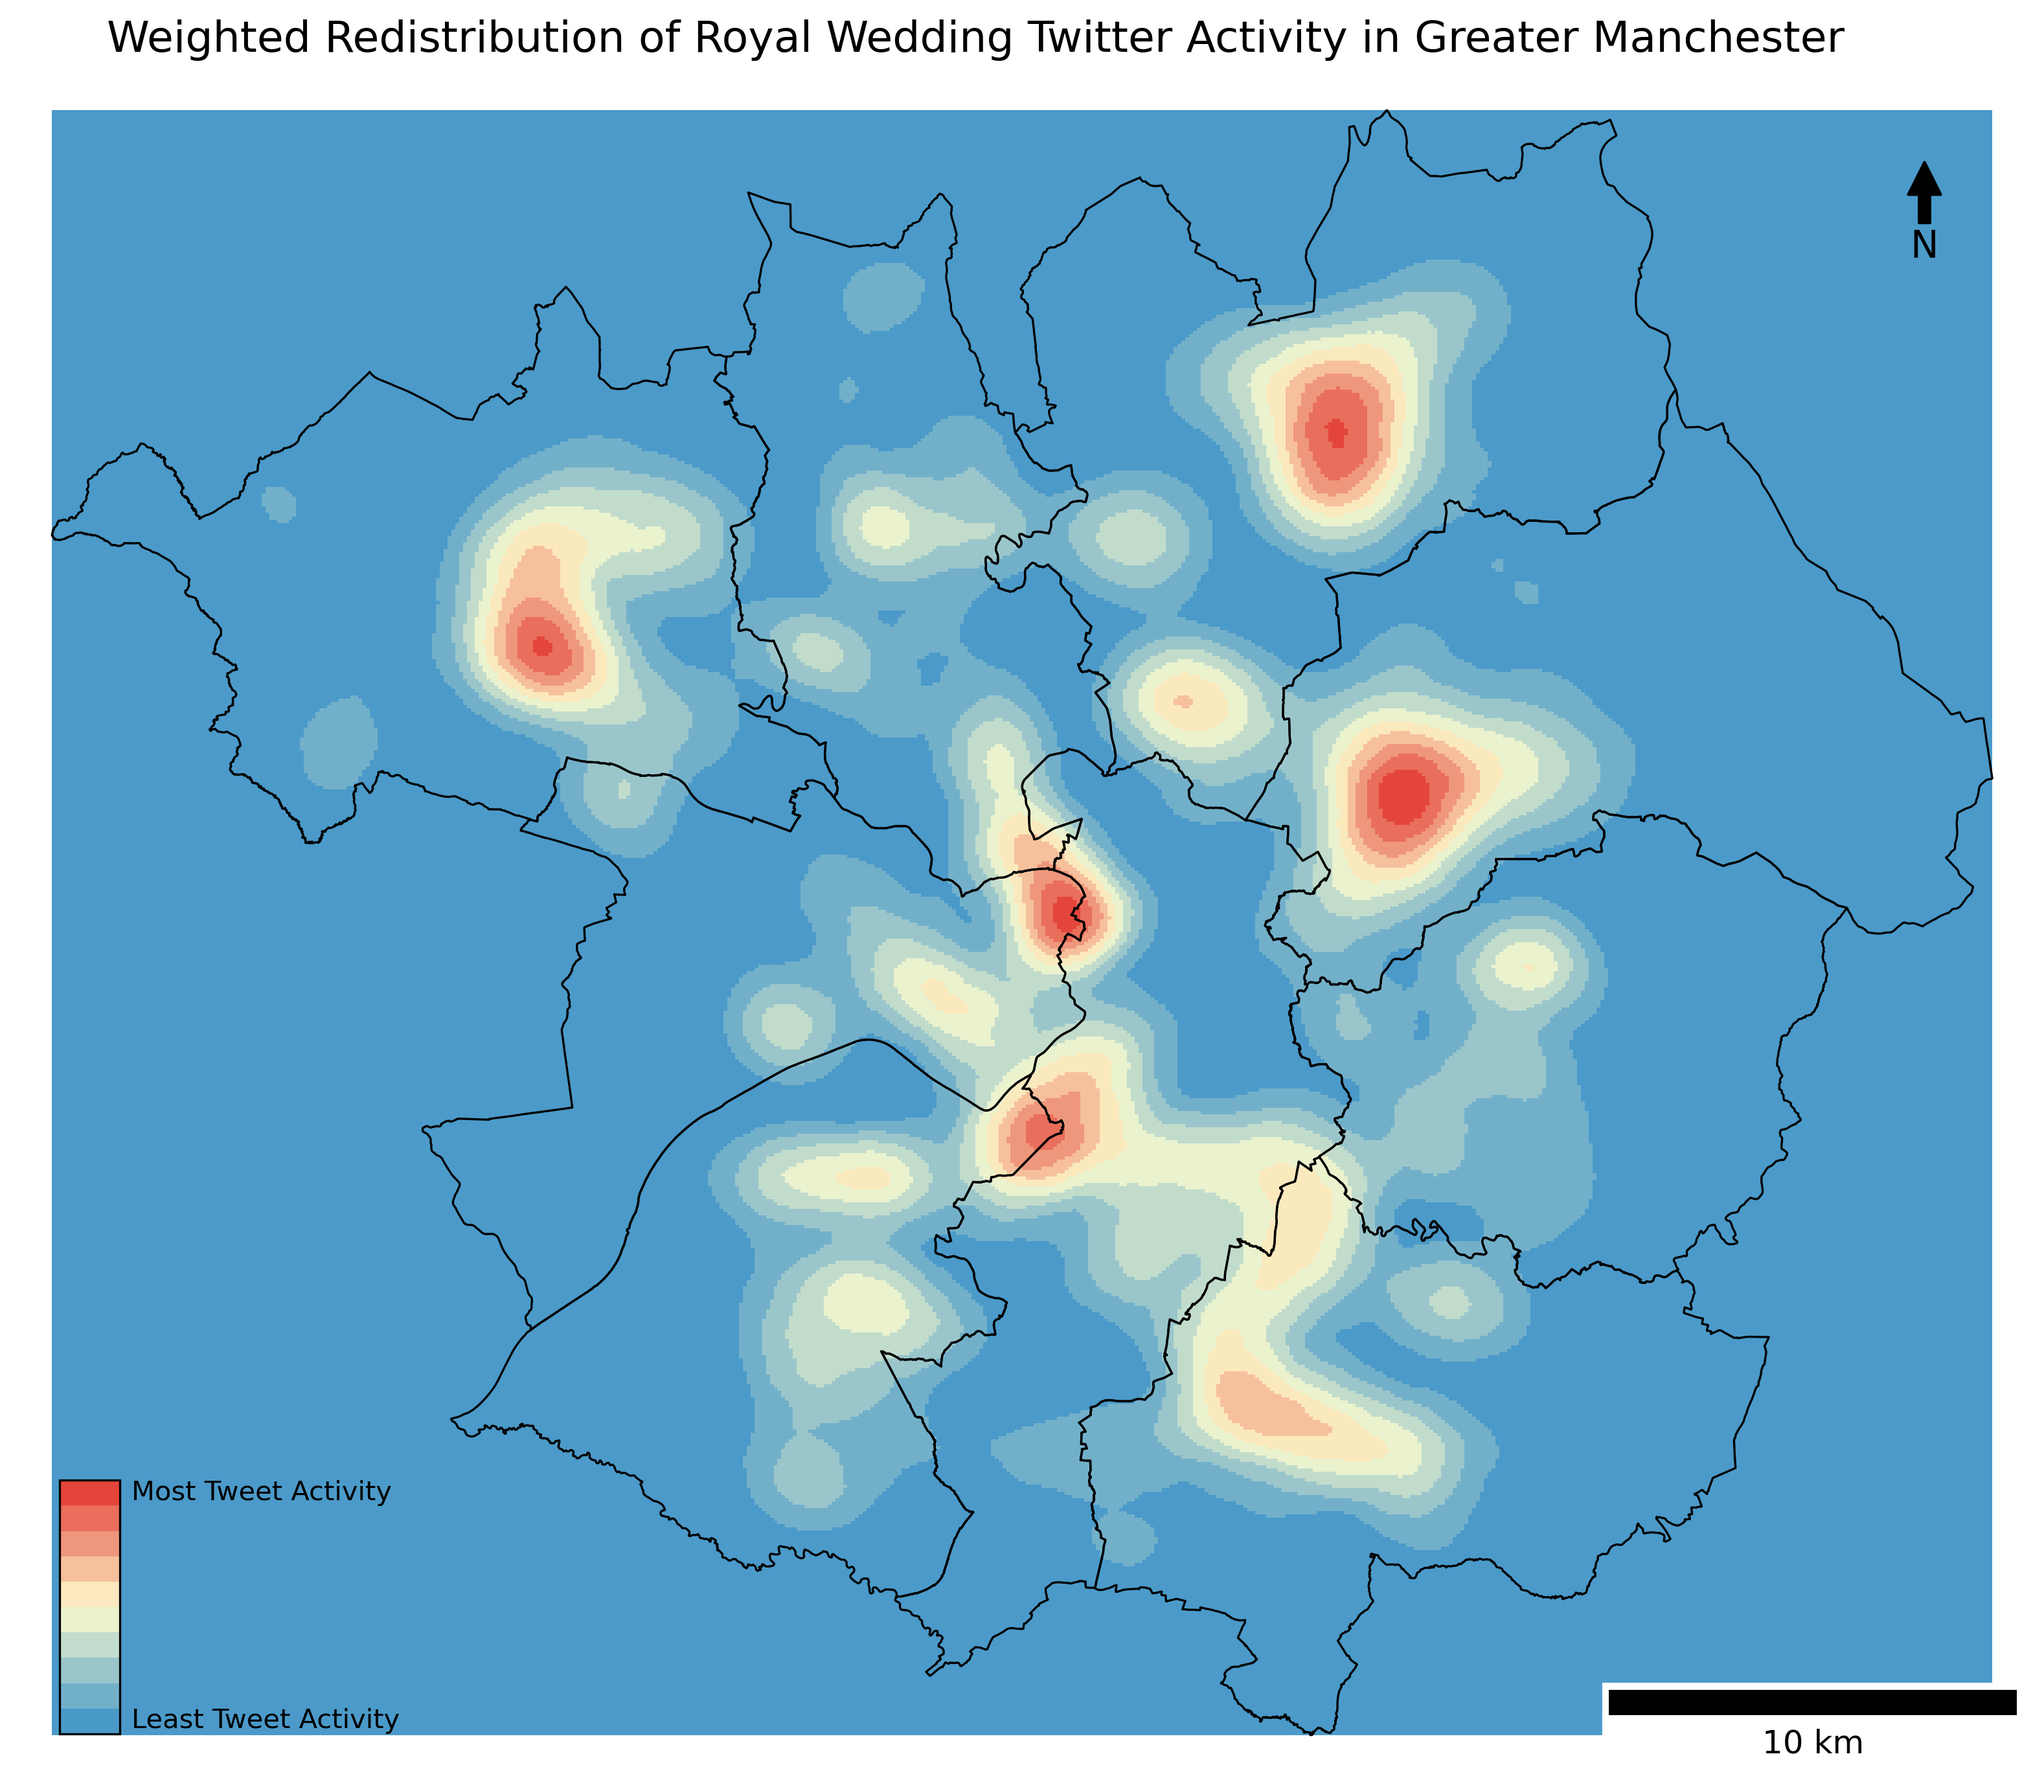
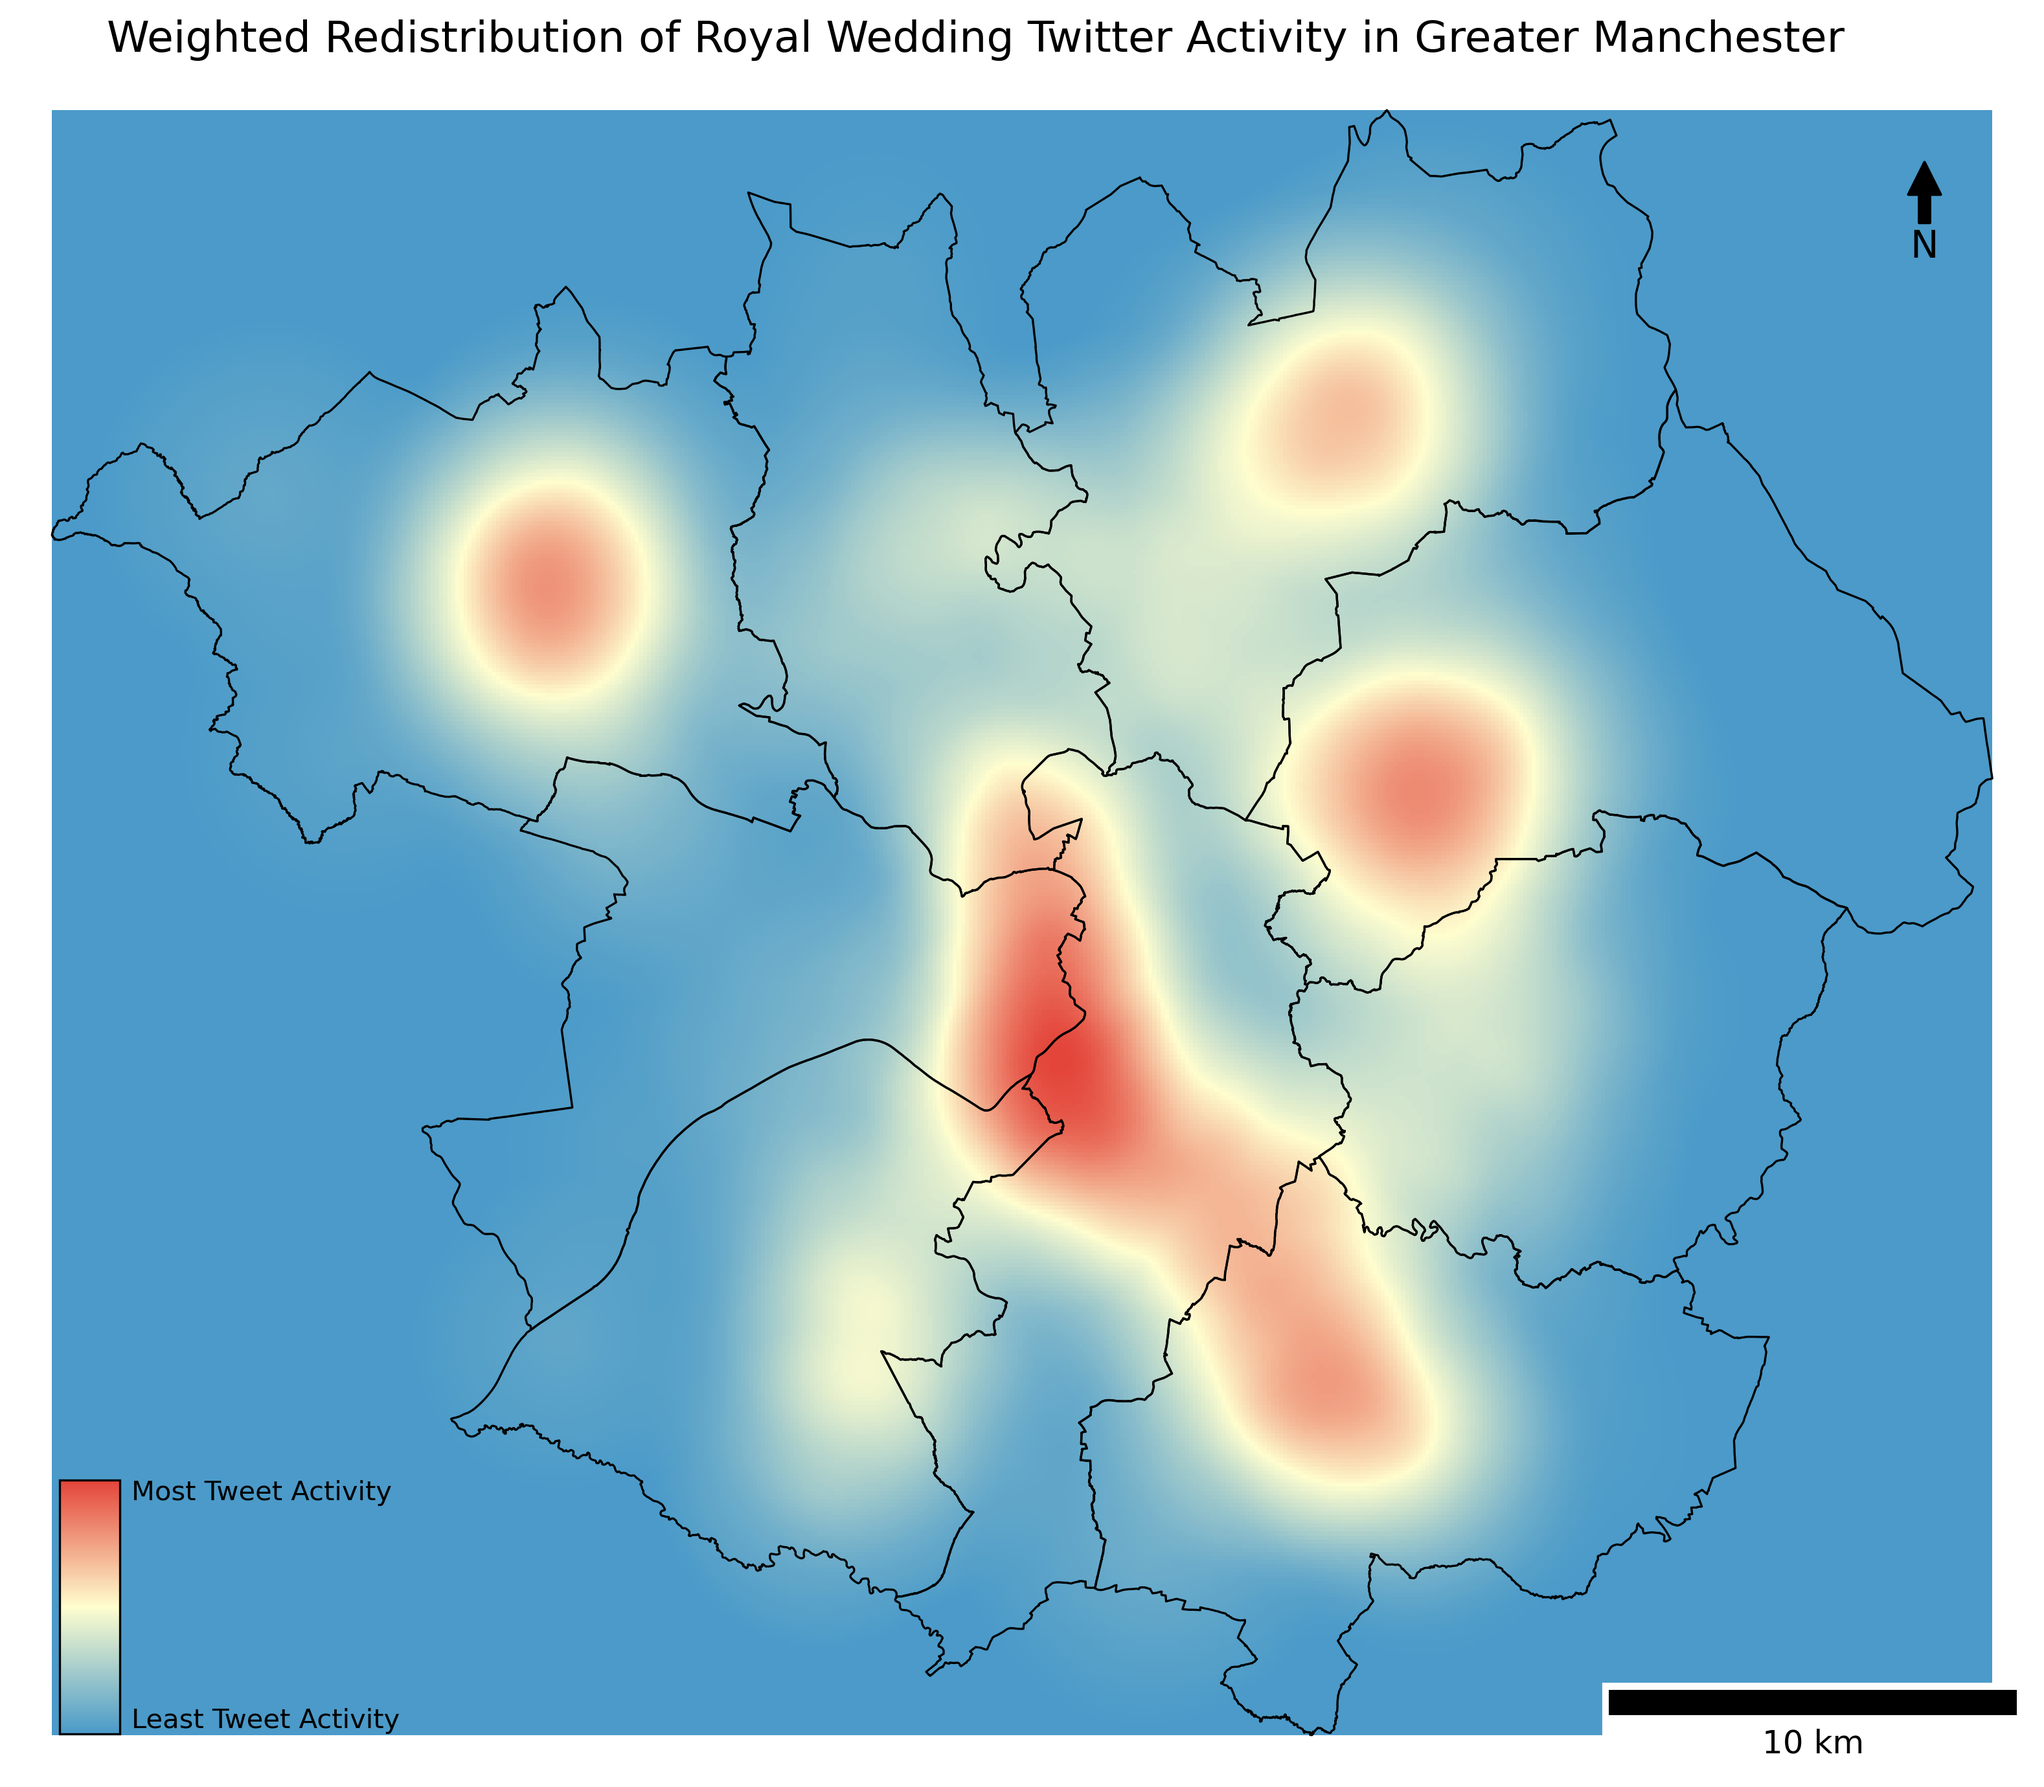
Improve calculating speed & adjustment parameter

diff --git a/assessment2.py b/assessment2.py
@@ -14,25 +14,26 @@ import geopandas as gpd
 import rasterio
 import numpy as np
 import matplotlib.pyplot as plt
-import shapely
 import math
-from numpy.random import uniform, random
-from math import radians, sin, cos
-from shapely import Point, minimum_bounding_circle
+from numpy.random import uniform
+from shapely import Point
 from matplotlib_scalebar.scalebar import ScaleBar
 from matplotlib.colors import LinearSegmentedColormap
 
 # 1.Load all required GIS data files and Set algorithm parameters
 
 # Algorithm parameters
-PARAM_W = 10    # w: Weighting influence
-PARAM_S = 0.1   # s: Spatial ambiguity
+PARAM_W = 20    # w: Weighting influence
+PARAM_S = 0.5   # s: Spatial ambiguity
 
 # Load all required GIS data files
 def load_gis_data():
     tweets = gpd.read_file("./data/wr/level3-tweets-subset.shp")
     gm_districts = gpd.read_file("./data/wr/gm-districts.shp")
     pop_raster = rasterio.open("./data/wr/100m_pop_2019.tif")
+    
+    # Read the data into the memory
+    pop_data = pop_raster.read(1)
     
     # Ensure Coordinate Reference Systems match
     if tweets.crs != gm_districts.crs:
@@ -44,27 +45,27 @@ def load_gis_data():
     # Get study area
     area_bounds = gm_districts.total_bounds
     
-    return tweets, pop_raster, gm_districts, area_bounds
+    return tweets, pop_raster, pop_data, gm_districts, area_bounds
        
 # 2.Extract population weight value from raster based on the point's geographic coordinates
-def get_raster_value(point, pop_raster):
+def get_raster_value(point, pop_raster, pop_data):
 
     try:
         # Convert geographic coordinates to raster row and column indices
         row, col = pop_raster.index(point.x, point.y)
         
         # Read the pixel value at the corresponding row and column
-        value = pop_raster.read(1)[row, col]
-        
-        # Filter invalid values
-        return value if value >= 0 else 0
-    
+        if 0 <= row < pop_data.shape[0] and 0 <= col < pop_data.shape[1]:
+            return pop_data[row, col]
+        else:
+            return 0
+            
     # Return 0 if the point is out of the raster range (trigger IndexError)
     except IndexError:
         return 0
     
 # 3.Perform weighted redistribution
-def perform_weighted_redistribution(tweets, districts, pop_raster):
+def perform_weighted_redistribution(tweets, districts, pop_raster, pop_data):
        
     # List to store final seed data
     final_seeds = []
@@ -79,8 +80,7 @@ def perform_weighted_redistribution(tweets, districts, pop_raster):
         if len(tweets_in_district) == 0:
             continue
             
-        # Calculate dynamic radius 'r' for this district
-        # Equation 1: r = sqrt((Area * s) / pi)
+        # Calculate dynamic radius for this district
         r_meters = math.sqrt((geom.area * PARAM_S) / math.pi)
         
         # Get bounding box of the district for random point generation
@@ -103,7 +103,7 @@ def perform_weighted_redistribution(tweets, districts, pop_raster):
                 # Check if the random point is actually inside the district geometry
                 if geom.contains(p_cand):
                     # Get population density weight for this candidate
-                    val = get_raster_value(p_cand, pop_raster)
+                    val = get_raster_value(p_cand, pop_raster, pop_data)
                     
                     # Keep the candidate with the highest population weight
                     if val > max_pop_val:
@@ -123,64 +123,70 @@ def perform_weighted_redistribution(tweets, districts, pop_raster):
     return final_seeds
 
 # 4.Calculate the weighted density of seed points
-def calculate_weighted_density(seeds_data, area_bounds):
+def calculate_weighted_density(seeds_data, pop_raster, pop_data):
 
-    # Set boundary
-    x_min, y_min, x_max, y_max = area_bounds
+    # Use the native shape of the population raster
+    height, width = pop_data.shape
+    density = np.zeros((height, width), dtype=np.float32)
 
-    # Set grid parameters
-    grid_size = 500
-
-    # Generate grid coordinate sequences and meshgrid for density visualization
-    x_grid = np.linspace(x_min, x_max, grid_size)
-    y_grid = np.linspace(y_min, y_max, grid_size)
-    X, Y = np.meshgrid(x_grid, y_grid)
-    density = np.zeros((grid_size, grid_size), dtype=np.float32) # Initialize density matrix with 0
-
-    # Calculate average pixel resolution
-    avg_pixel_res = ((x_max - x_min) + (y_max - y_min)) / (2 * grid_size)
+    # Get pixel resolution from raster transform
+    pixel_res = pop_raster.transform[0]
+    
+    # Kernel Caching
+    # Store calculated kernel shapes
+    kernel_cache = {}
     
     # Iterate through each relocated seed point
     for seed_x, seed_y, r_meters in seeds_data:
 
         # Convert radius from meters to pixels
-        r_px = int(r_meters / avg_pixel_res)
+        r_px = int(r_meters / pixel_res)
         if r_px < 1: r_px = 1
         
-        # Find grid indices for the seed center
-        grid_j = int((seed_x - x_min) / (x_max - x_min) * grid_size)
-        grid_i = int((seed_y - y_min) / (y_max - y_min) * grid_size)
+        # Get center grid indices directly using rasterio
+        center_row, center_col = pop_raster.index(seed_x, seed_y)
         
-        # Skip seed points outside the boundary
-        if 0 <= grid_i < grid_size and 0 <= grid_j < grid_size:
+        # Define bounds for the splat operation
+        start_i = max(0, center_row - r_px)
+        end_i = min(height, center_row + r_px + 1)
+        start_j = max(0, center_col - r_px)
+        end_j = min(width, center_col + r_px + 1)
         
-            # Calculate the valid superposition range on the density grid
-            # Determine the x direction
-            start_i = max(0, grid_i - r_px)
-            end_i = min(grid_size, grid_i + r_px + 1)
-            # Determine the y direction
-            start_j = max(0, grid_j - r_px)
-            end_j = min(grid_size, grid_j + r_px + 1)
+        # Skip if completely out of bounds
+        if start_i >= end_i or start_j >= end_j: continue
+    
+        # Create the Kernel
+        if r_px not in kernel_cache:
+            # Create local coordinate grid for the kernel
+            ky, kx = np.ogrid[-r_px:r_px+1, -r_px:r_px+1]
+            dist_matrix = np.sqrt(kx**2 + ky**2)
+            
+            # Calaulate Kernel
+            kernel = 1 - (dist_matrix / r_px)
+            kernel[kernel < 0] = 0 # Clip values outside circle
+            
+            # Cache the result
+            kernel_cache[r_px] = kernel.astype(np.float32)
         
-            # Calculate the valid slice range of the kernel matrix
-            for y in range(start_i, end_i):
-                for x in range(start_j, end_j):
-                    # Euclidean distance in pixels
-                    dist_px = math.sqrt((x - grid_j)**2 + (y - grid_i)**2)
-                    
-                    if dist_px <= r_px:
-                        # Linear decay function
-                        val = 1 - (dist_px / r_px)
-                        density[y, x] += val  
+        full_kernel = kernel_cache[r_px]
+        
+        # Calculate slicing offsets to map kernel to the density grid
+        k_start_i = start_i - (center_row - r_px)
+        k_end_i   = k_start_i + (end_i - start_i)
+        k_start_j = start_j - (center_col - r_px)
+        k_end_j   = k_start_j + (end_j - start_j)
+        
+        # Add kernel to the density matrix (Vectorized Addition)
+        density[start_i:end_i, start_j:end_j] += full_kernel[k_start_i:k_end_i, k_start_j:k_end_j]
 
-    return X, Y, density
+    return density
 
 # 5.Drawing the map
-def visualize_hotspot(gm_districts, X, Y, density, area_bounds):
+def visualize_hotspot(gm_districts, density, area_bounds):
    
     # Custom colors: blue → yellow → red (corresponding to low to high density)
     colors = ['#368fc3', '#fffeca', '#e13024']
-    cmap = LinearSegmentedColormap.from_list(None, colors, N=10)
+    cmap = LinearSegmentedColormap.from_list(None, colors)
 
     # Create figure
     fig, ax = plt.subplots(1, 1, figsize=(16, 10))
@@ -202,7 +208,7 @@ def visualize_hotspot(gm_districts, X, Y, density, area_bounds):
     gm_districts.plot(ax=ax, color='none', edgecolor='black', linewidth=0.8, zorder=2)
     
     # Plot density heatmap
-    ax.imshow(density, extent=[x_min, x_max, y_min, y_max], origin='lower',
+    ax.imshow(density, extent=[x_min, x_max, y_min, y_max], origin='upper',
           cmap=cmap, vmin=np.nanmin(density), vmax=np.nanmax(density), alpha=0.9, zorder=1)
 
     # Add scale bar
@@ -230,10 +236,10 @@ def visualize_hotspot(gm_districts, X, Y, density, area_bounds):
 # Main function: program entry point (only execute when running this script directly)
 if __name__ == "__main__":
     # Call functions in sequence to complete the full workflow
-    tweets, pop_raster, gm_districts, area_bounds = load_gis_data()
-    seeds_data = perform_weighted_redistribution(tweets, gm_districts, pop_raster)
-    X, Y, density = calculate_weighted_density(seeds_data, area_bounds)
-    visualize_hotspot(gm_districts, X, Y, density, area_bounds)
+    tweets, pop_raster, pop_data, gm_districts, area_bounds = load_gis_data()
+    seeds_data = perform_weighted_redistribution(tweets, gm_districts, pop_raster, pop_data)
+    density = calculate_weighted_density(seeds_data, pop_raster, pop_data)
+    visualize_hotspot(gm_districts, density, area_bounds)
 
 # --- NO CODE BELOW HERE ---
 
